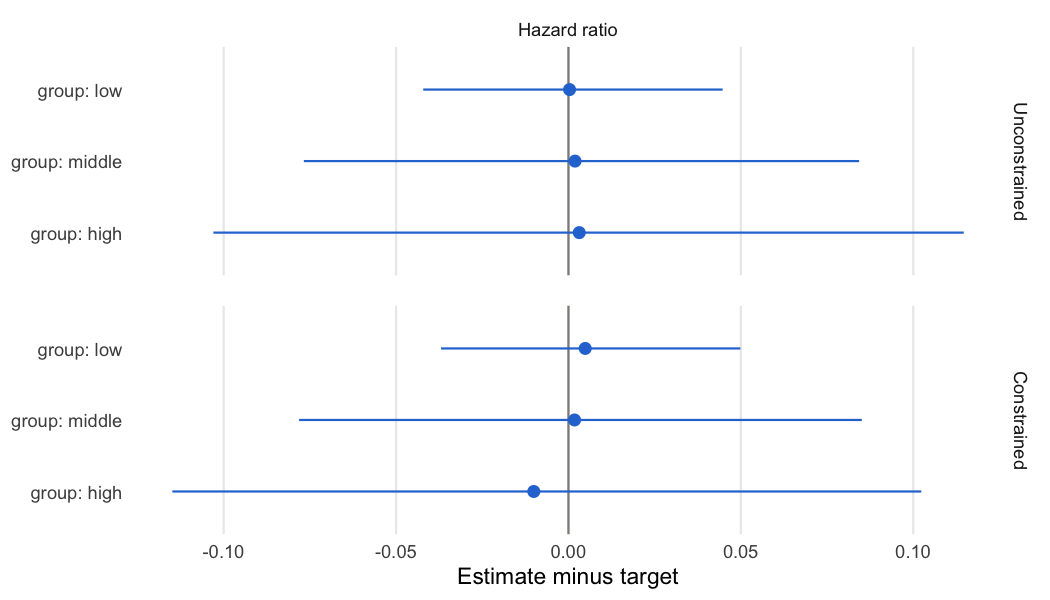
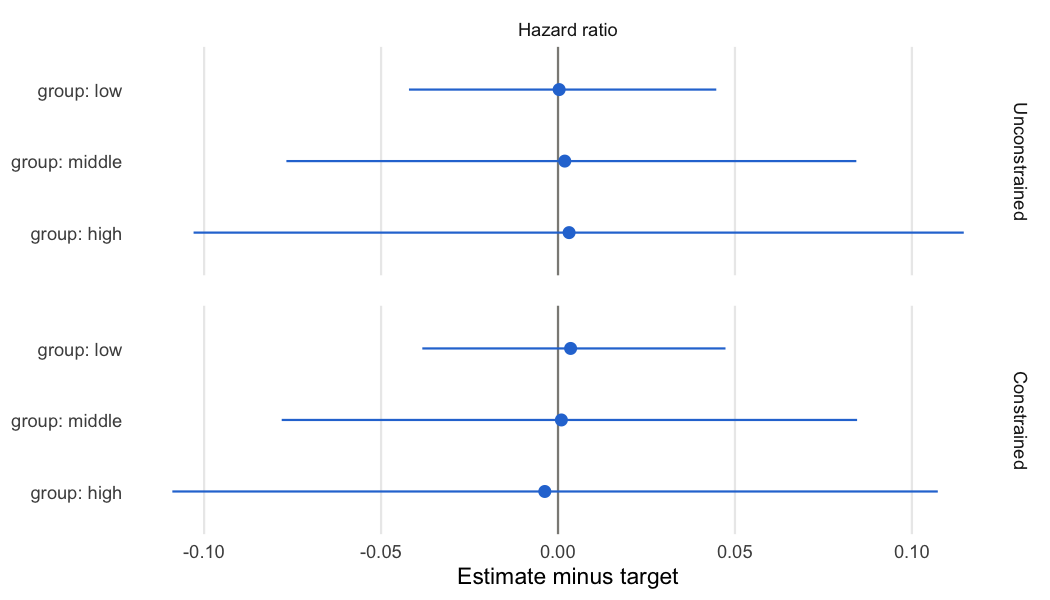
increase default iterations in optimizations

diff --git a/NEWS.md b/NEWS.md
@@ -7,6 +7,8 @@
   `group_example_summary()` also reports the bounds `lower` and `upper` of the 95% confidence interval of each hazard ratio.
 * The optimization loss is now the Euclidean distance between the observed and assumed hazard ratios on the linear scale, without standard errors.
   `tolerance` is on the linear scale of the hazard ratio.
+* The default `iterations` of `group_optimize_constrained()` and `group_optimize_unconstrained()` is now 10000 instead of 1000.
+  Iterations are cheap, and 1000 was often too few for the colon cancer example to converge.
 * `group_sample_constrained()` and `group_optimize_constrained()` preserve the number of events in each subgroup level as well as the number of patients.
 
 ## New features
